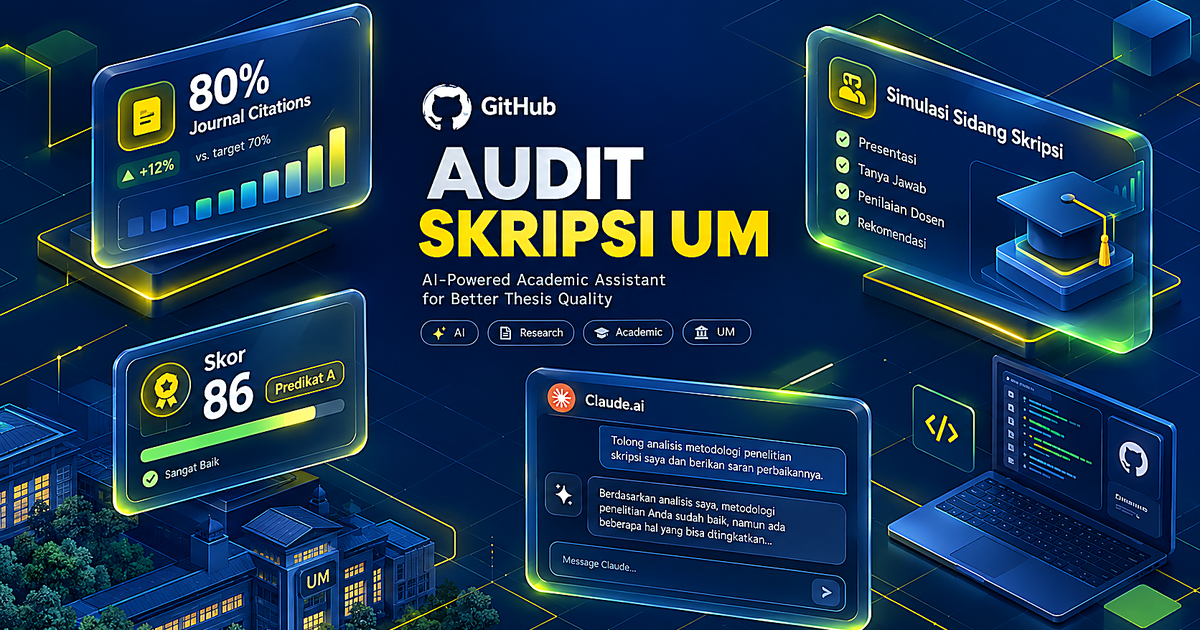
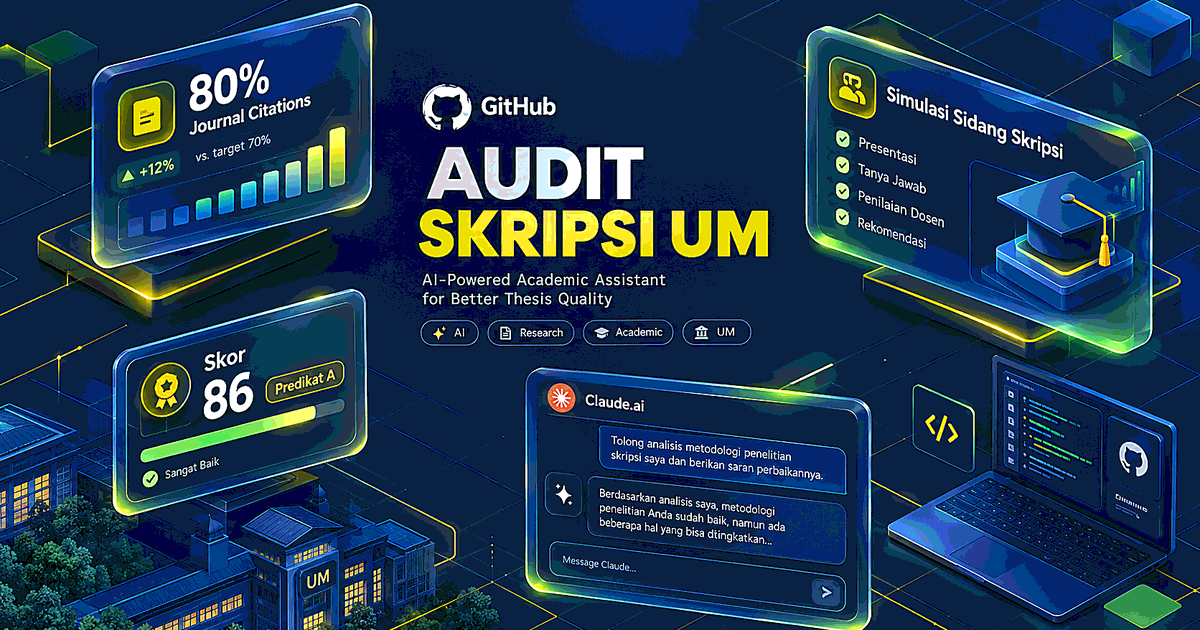
fix(seo): optimize titles <=60 chars, descriptions, and compress og:image to 190KB for WhatsApp and social preview

Changed region(s): [[0.8942, 0.8444, 0.925, 0.8746], [0.8633, 0.8143, 0.8942, 0.8444]]

diff --git a/index.html b/index.html
@@ -4,10 +4,10 @@
   <meta charset="UTF-8">
   <meta name="viewport" content="width=device-width, initial-scale=1.0">
 
-  <!-- Primary SEO Meta Tags -->
-  <title>Pedoman & Audit Skripsi UM — Panduan Mandiri Berbasis Pedoman 2017</title>
-  <meta name="title" content="Pedoman & Audit Skripsi UM — Panduan Mandiri Berbasis Pedoman 2017">
-  <meta name="description" content="Inisiatif terbuka untuk membantu mahasiswa Universitas Negeri Malang (UM) menelaah naskah skripsi, keselarasan metodologi, proporsi minimal 80% rujukan artikel jurnal mutakhir, dan persiapan ujian sidang di Claude.ai Projects.">
+  <!-- Primary SEO Meta Tags (Optimized: Title <= 60 chars, Description ~150 chars) -->
+  <title>Audit Skripsi UM — Panduan &amp; Simulasi Sidang 2017</title>
+  <meta name="title" content="Audit Skripsi UM — Panduan &amp; Simulasi Sidang 2017">
+  <meta name="description" content="Panduan mandiri audit skripsi mahasiswa Universitas Negeri Malang (UM) berbasis Pedoman 2017. Telaah benang merah, rujukan jurnal 80%, dan latihan sidang.">
   <meta name="keywords" content="skripsi um, pedoman skripsi um 2017, audit skripsi universitas negeri malang, panduan penulisan karya ilmiah um, ujian sidang skripsi um, claude ai skripsi, rubrik audit skripsi, tata bahasa ilmiah um">
   <meta name="author" content="Inisiatif Terbuka Akademik UM">
   <meta name="robots" content="index, follow, max-image-preview:large, max-snippet:-1, max-video-preview:-1">
@@ -24,26 +24,29 @@
   <link rel="icon" type="image/png" sizes="64x64" href="assets/img/favicon-64.png">
   <link rel="apple-touch-icon" sizes="180x180" href="assets/img/apple-touch-icon.png">
 
-  <!-- Open Graph / Facebook / WhatsApp -->
+  <!-- WhatsApp & Legacy Crawler Direct Image Reference -->
+  <link rel="image_src" href="https://audit-skripsi-um.webenzelabs.id/assets/img/og-preview.jpg">
+
+  <!-- Open Graph / Facebook / WhatsApp (Social optimized: Title <= 60 chars, Description <= 125 chars, Image < 300 KB) -->
   <meta property="og:type" content="website">
   <meta property="og:url" content="https://audit-skripsi-um.webenzelabs.id/">
-  <meta property="og:site_name" content="Pedoman & Audit Skripsi UM">
+  <meta property="og:site_name" content="Audit Skripsi UM">
   <meta property="og:locale" content="id_ID">
-  <meta property="og:title" content="Pedoman & Audit Skripsi UM — Panduan Mandiri Berbasis Pedoman 2017">
-  <meta property="og:description" content="Inisiatif terbuka untuk membantu mahasiswa Universitas Negeri Malang (UM) menelaah naskah skripsi, keselarasan metodologi, proporsi minimal 80% rujukan artikel jurnal mutakhir, dan persiapan ujian sidang di Claude.ai Projects.">
-  <meta property="og:image" content="https://audit-skripsi-um.webenzelabs.id/assets/img/og-preview.png">
-  <meta property="og:image:secure_url" content="https://audit-skripsi-um.webenzelabs.id/assets/img/og-preview.png">
-  <meta property="og:image:type" content="image/png">
+  <meta property="og:title" content="Audit Skripsi UM — Panduan &amp; Simulasi Sidang 2017">
+  <meta property="og:description" content="Panduan mandiri audit naskah skripsi dan simulasi sidang mahasiswa UM berstandar Pedoman 2017.">
+  <meta property="og:image" content="https://audit-skripsi-um.webenzelabs.id/assets/img/og-preview.jpg">
+  <meta property="og:image:secure_url" content="https://audit-skripsi-um.webenzelabs.id/assets/img/og-preview.jpg">
+  <meta property="og:image:type" content="image/jpeg">
   <meta property="og:image:width" content="1200">
   <meta property="og:image:height" content="630">
-  <meta property="og:image:alt" content="Pedoman & Audit Skripsi Universitas Negeri Malang">
+  <meta property="og:image:alt" content="Audit Skripsi UM — AI Companion &amp; Simulasi Sidang">
 
   <!-- Twitter Card -->
   <meta name="twitter:card" content="summary_large_image">
   <meta name="twitter:url" content="https://audit-skripsi-um.webenzelabs.id/">
-  <meta name="twitter:title" content="Pedoman & Audit Skripsi UM (Edisi 2017)">
-  <meta name="twitter:description" content="Panduan mandiri penelaahan naskah skripsi dan latihan sidang skripsi berbasis ruang kerja Claude.ai Projects.">
-  <meta name="twitter:image" content="https://audit-skripsi-um.webenzelabs.id/assets/img/og-preview.png">
+  <meta name="twitter:title" content="Audit Skripsi UM — Panduan &amp; Simulasi Sidang 2017">
+  <meta name="twitter:description" content="Panduan mandiri audit naskah skripsi dan simulasi sidang mahasiswa UM berstandar Pedoman 2017.">
+  <meta name="twitter:image" content="https://audit-skripsi-um.webenzelabs.id/assets/img/og-preview.jpg">
 
   <!-- Preconnect External Fonts for Faster LCP -->
   <link rel="preconnect" href="https://fonts.googleapis.com">
